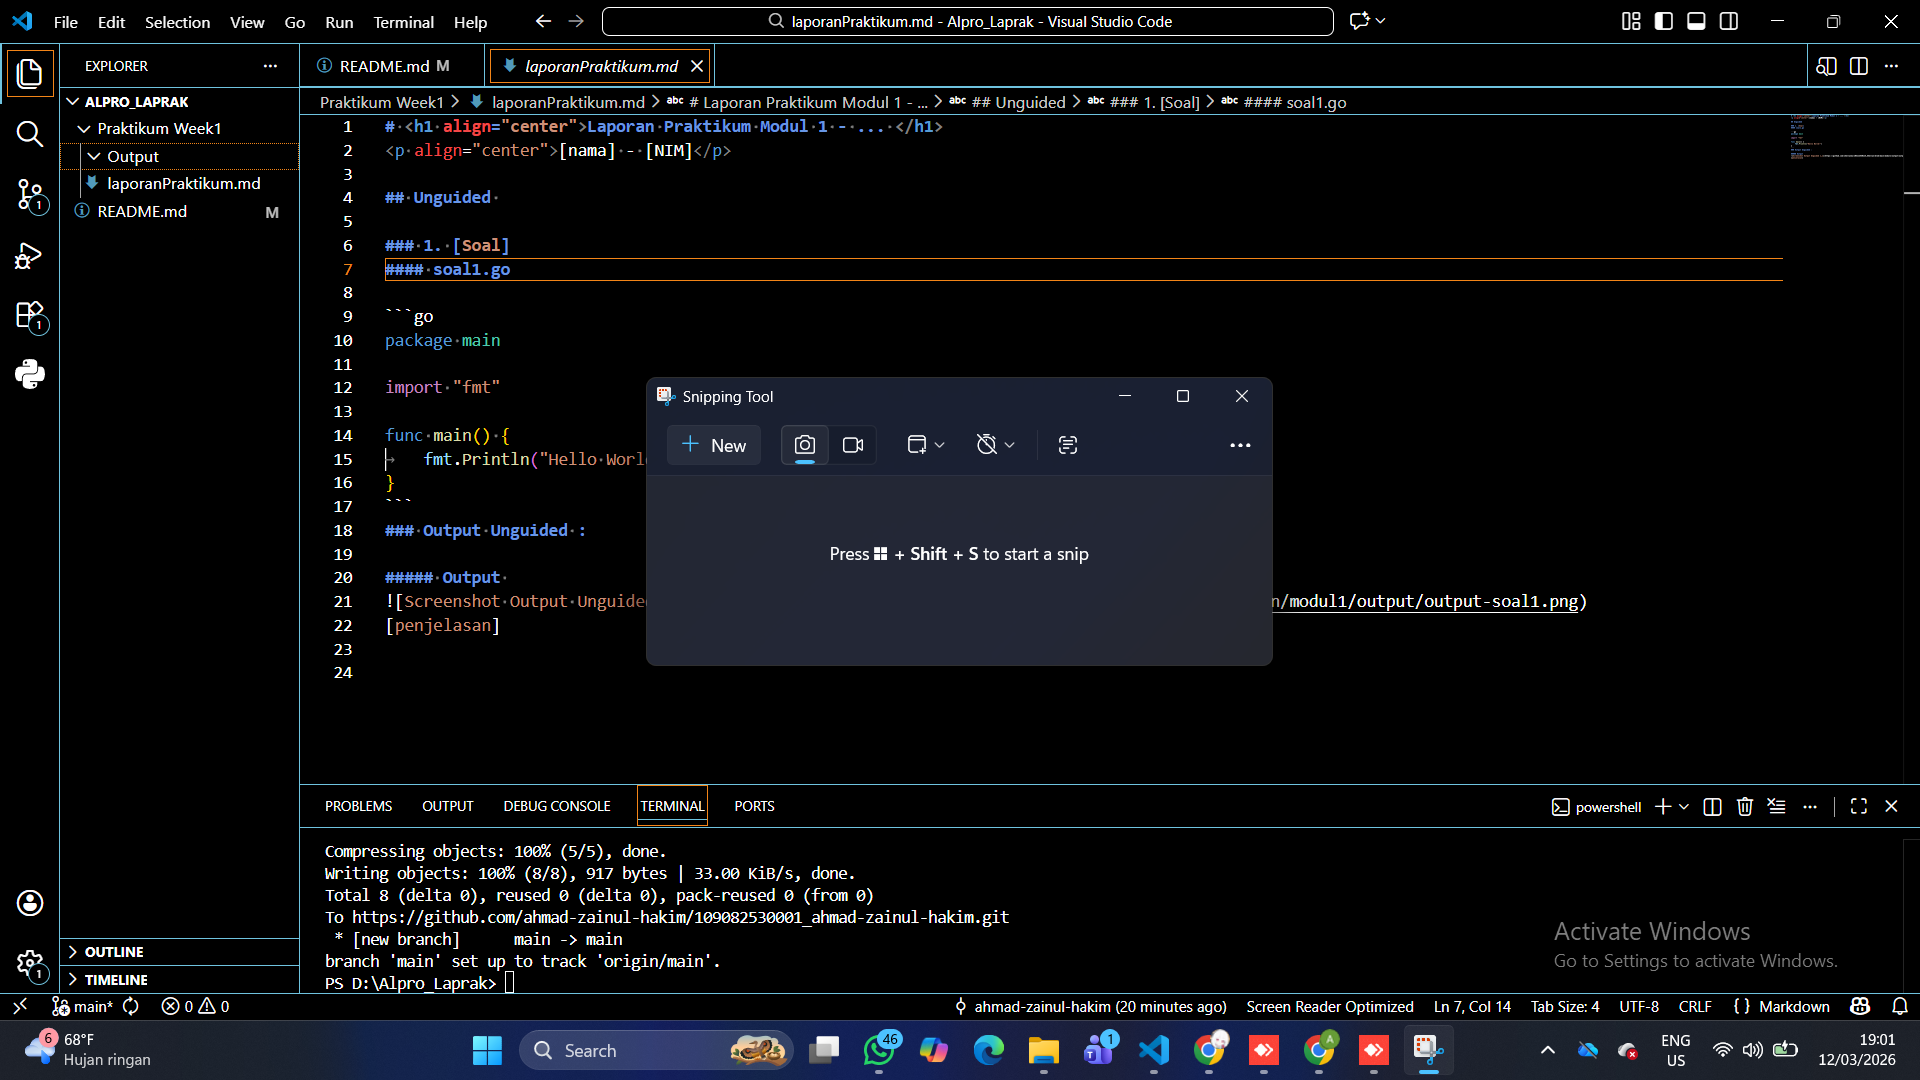
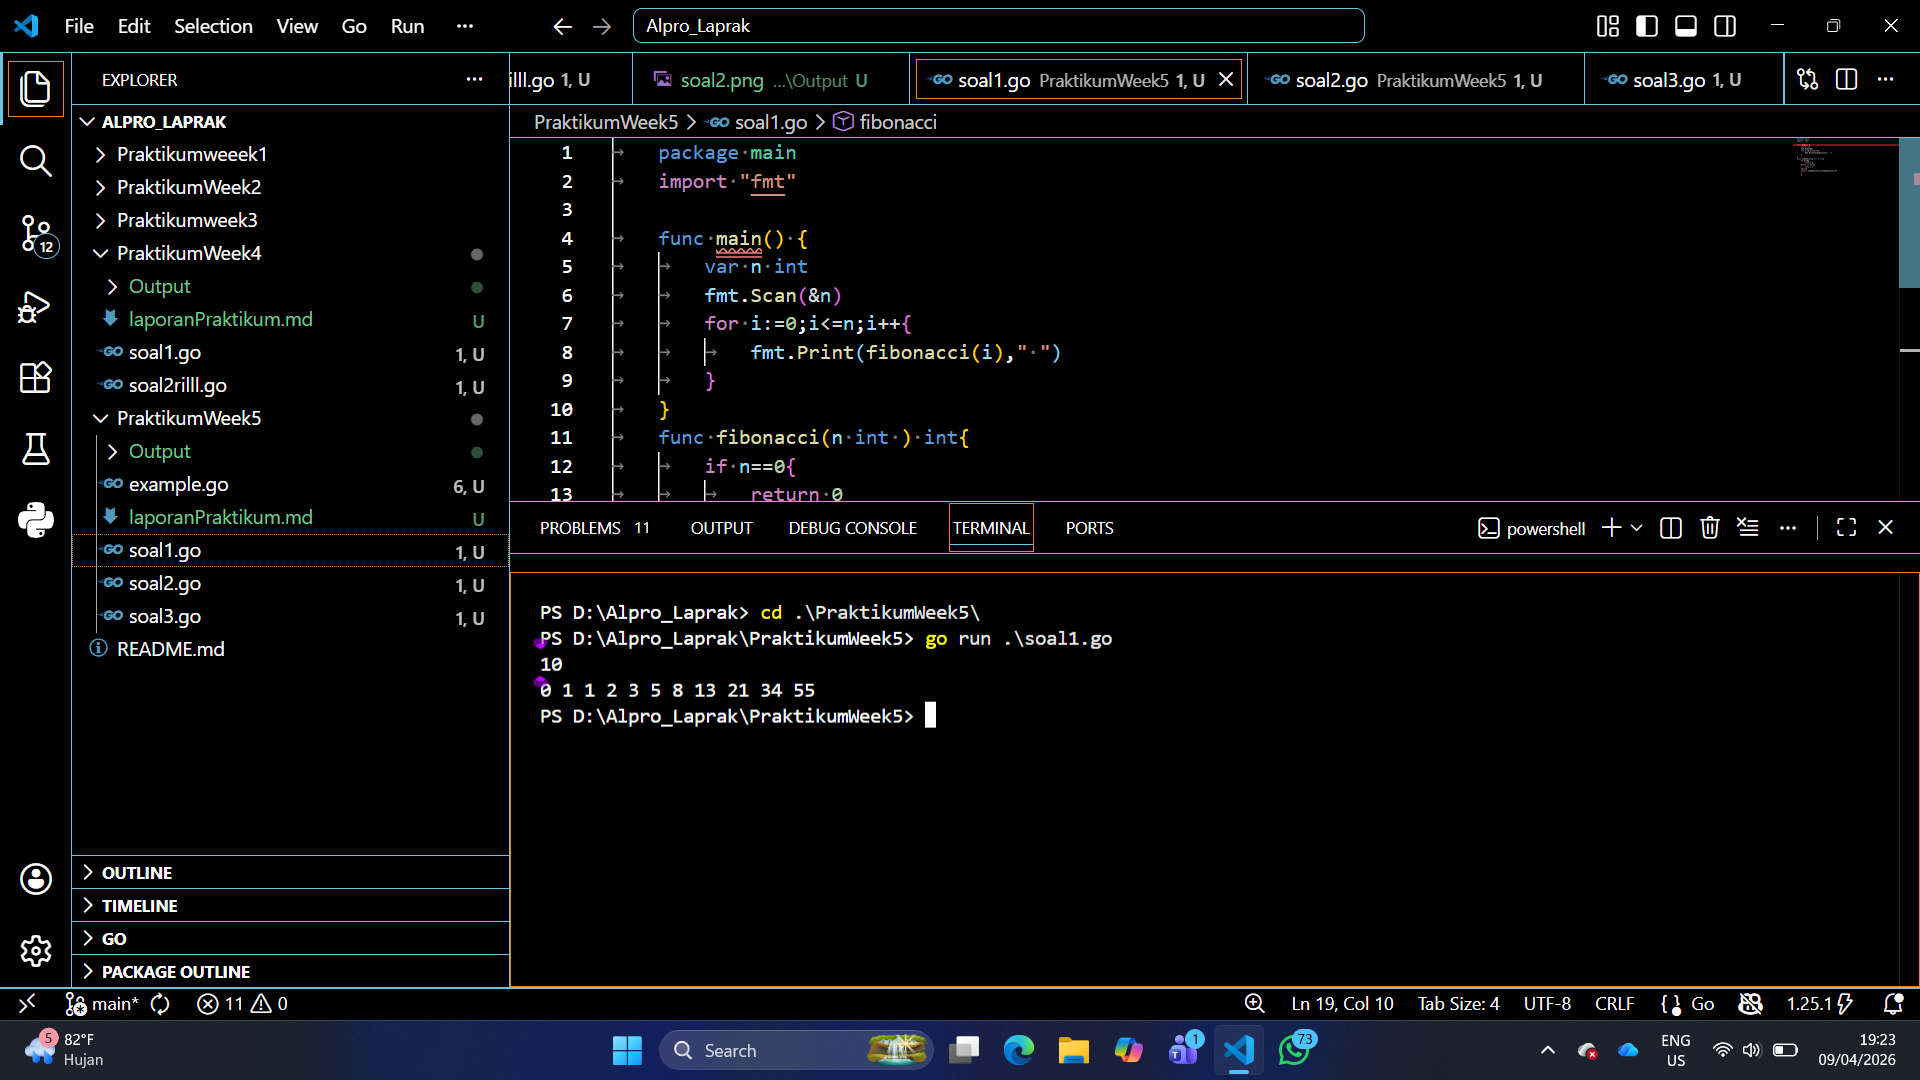
done

diff --git a/PraktikumWeek5/laporanPraktikum.md b/PraktikumWeek5/laporanPraktikum.md
@@ -3,7 +3,72 @@
 
 ## Unguided 
 
-### 1. [exampel soal buatkan blabla
+### 1. SOAL 1
+#### soal1.go
+  
+```go
+	package main
+	import "fmt"
+
+	func main() {
+		var n int
+		fmt.Scan(&n)
+		for i:=0;i<=n;i++{
+			fmt.Print(fibonacci(i)," ")
+		}
+	}
+	func fibonacci(n int ) int{
+		if n==0{
+			return 0
+		}else if n==1{
+			return 1
+		}else{
+		return fibonacci(n-1)+fibonacci(n-2)
+		}
+		}
+```
+### Output Unguided :
+
+##### Output 
+![Screenshot Output Unguided 1_1](https://github.com/ahmad-zainul-hakim/109082530001_ahmad-zainul-hakim/blob/main/Praktikumweeek1/Output/Example.png)
+[penjelasan]ini adalah contoh bro!
+
+### 1. SOAL 1
+#### soal1.go
+  
+```go
+package main
+import "fmt"
+func print(x int){
+	if x==0 {
+	return
+		}else{
+		print(x-1)
+		bintang(x)
+		fmt.Println("")
+	}
+}
+func main() {
+var n int
+fmt.Scan(&n)
+print(n)
+}
+func bintang(x int){
+	if x==0{
+		return
+	}else{
+		bintang(x-1)
+	fmt.Print("*")
+}
+}
+```
+### Output Unguided :
+
+##### Output 
+![Screenshot Output Unguided 1_1](https://github.com/ahmad-zainul-hakim/109082530001_ahmad-zainul-hakim/blob/main/Praktikumweeek1/Output/Example.png)
+[penjelasan]ini adalah contoh bro!
+
+### 1. SOAL 1
 #### soal1.go
   
 ```go
@@ -11,7 +76,18 @@ package main
 import "fmt"
 
 func main(){
-	var i, a int
+	var n int 
+	fmt.Scan(&n)
+	faktor(n, 1)
+}
+func faktor(n , i int){
+
+	if i==n+1{
+		return
+	}else if n%i == 0{
+		fmt.Print(i," ")
+	}
+	faktor(n, i+1)
 }
 ```
 ### Output Unguided :
